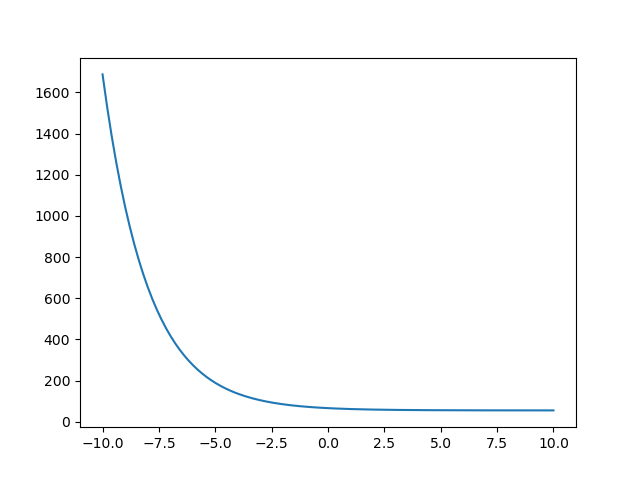
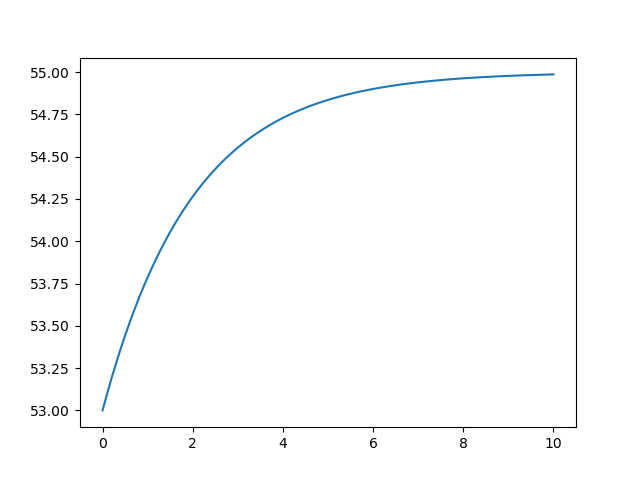
all right

diff --git a/course 1/practice on programming/Integration and other (prac4)/differential_equation.py b/course 1/practice on programming/Integration and other (prac4)/differential_equation.py
@@ -14,10 +14,10 @@ if __name__ == '__main__':
     # y = e^(-x/2) * C
     # --------------------------
     # y = C * e^(-x/2) + 55
-    C = 11
+    C = 2
     e = math.e
-    x = np.linspace(-10, 10, 200)
-    y = C * (e**(-x / 2)) + 55
+    x = np.linspace(0, 10, 200)
+    y = -C * (e**(-x / 2)) + 55
     plt.plot(x, y)
     plt.savefig('differential_equation.png', format='png')
     plt.show()
